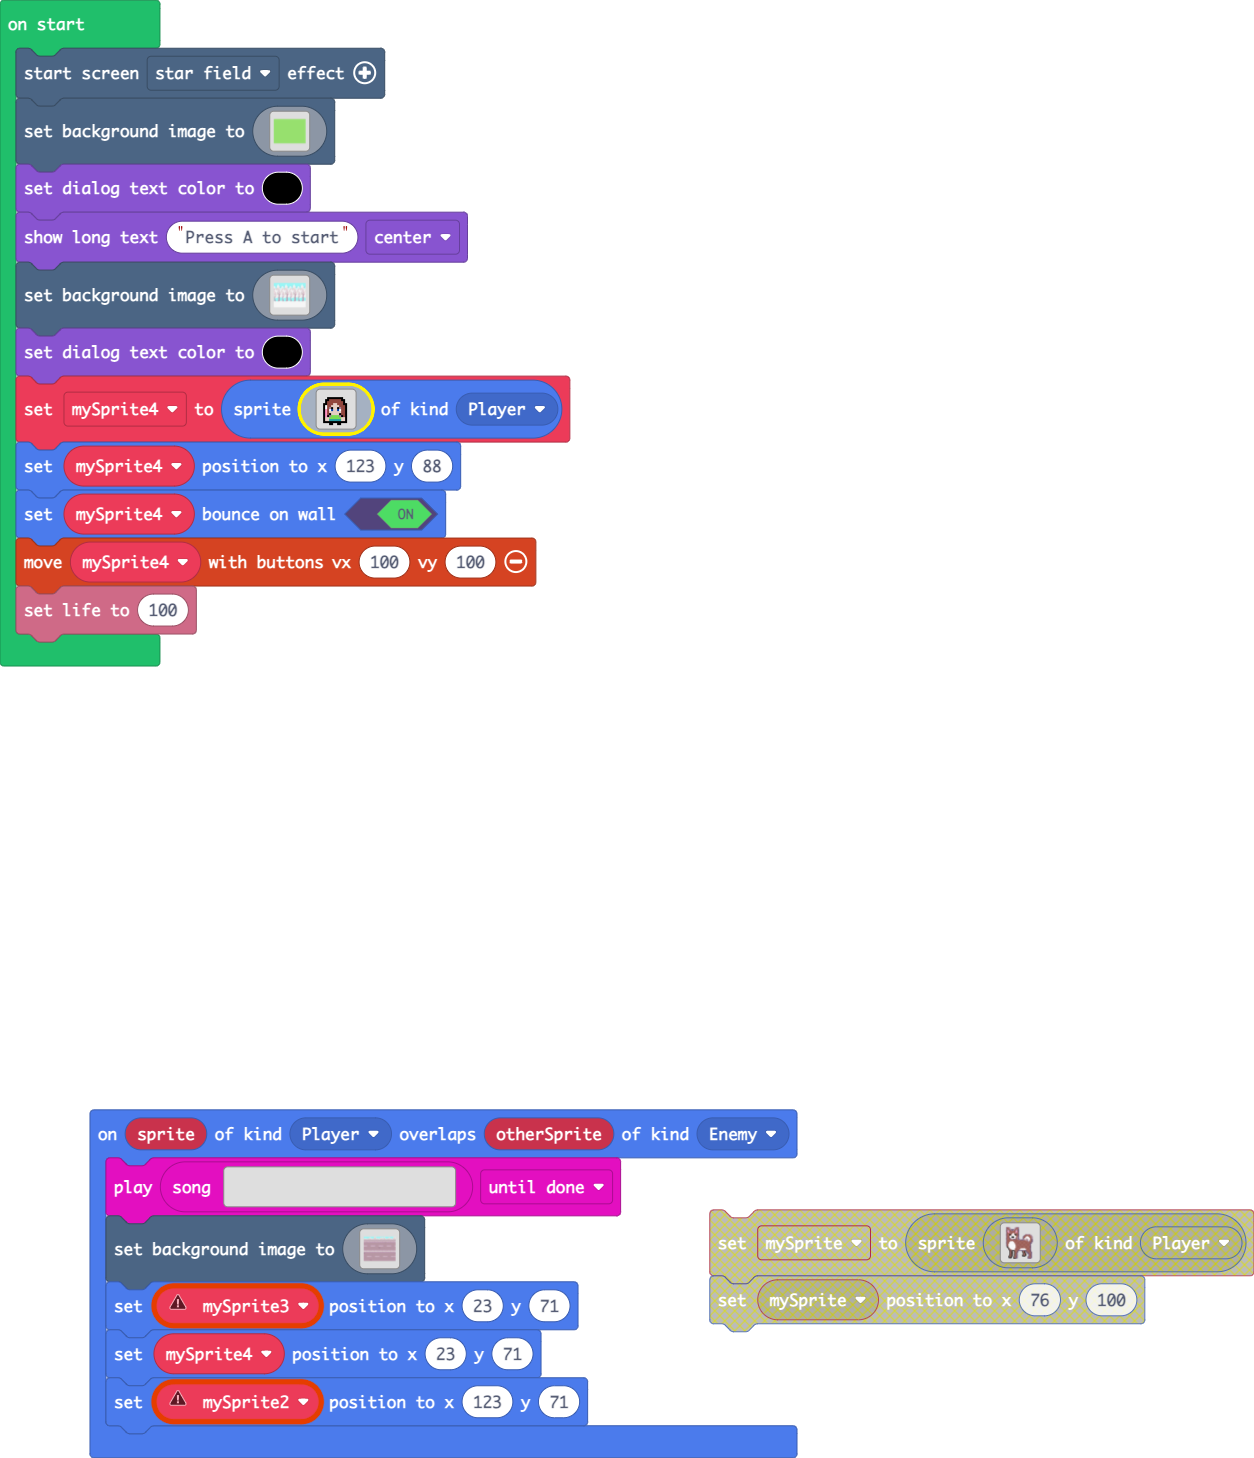
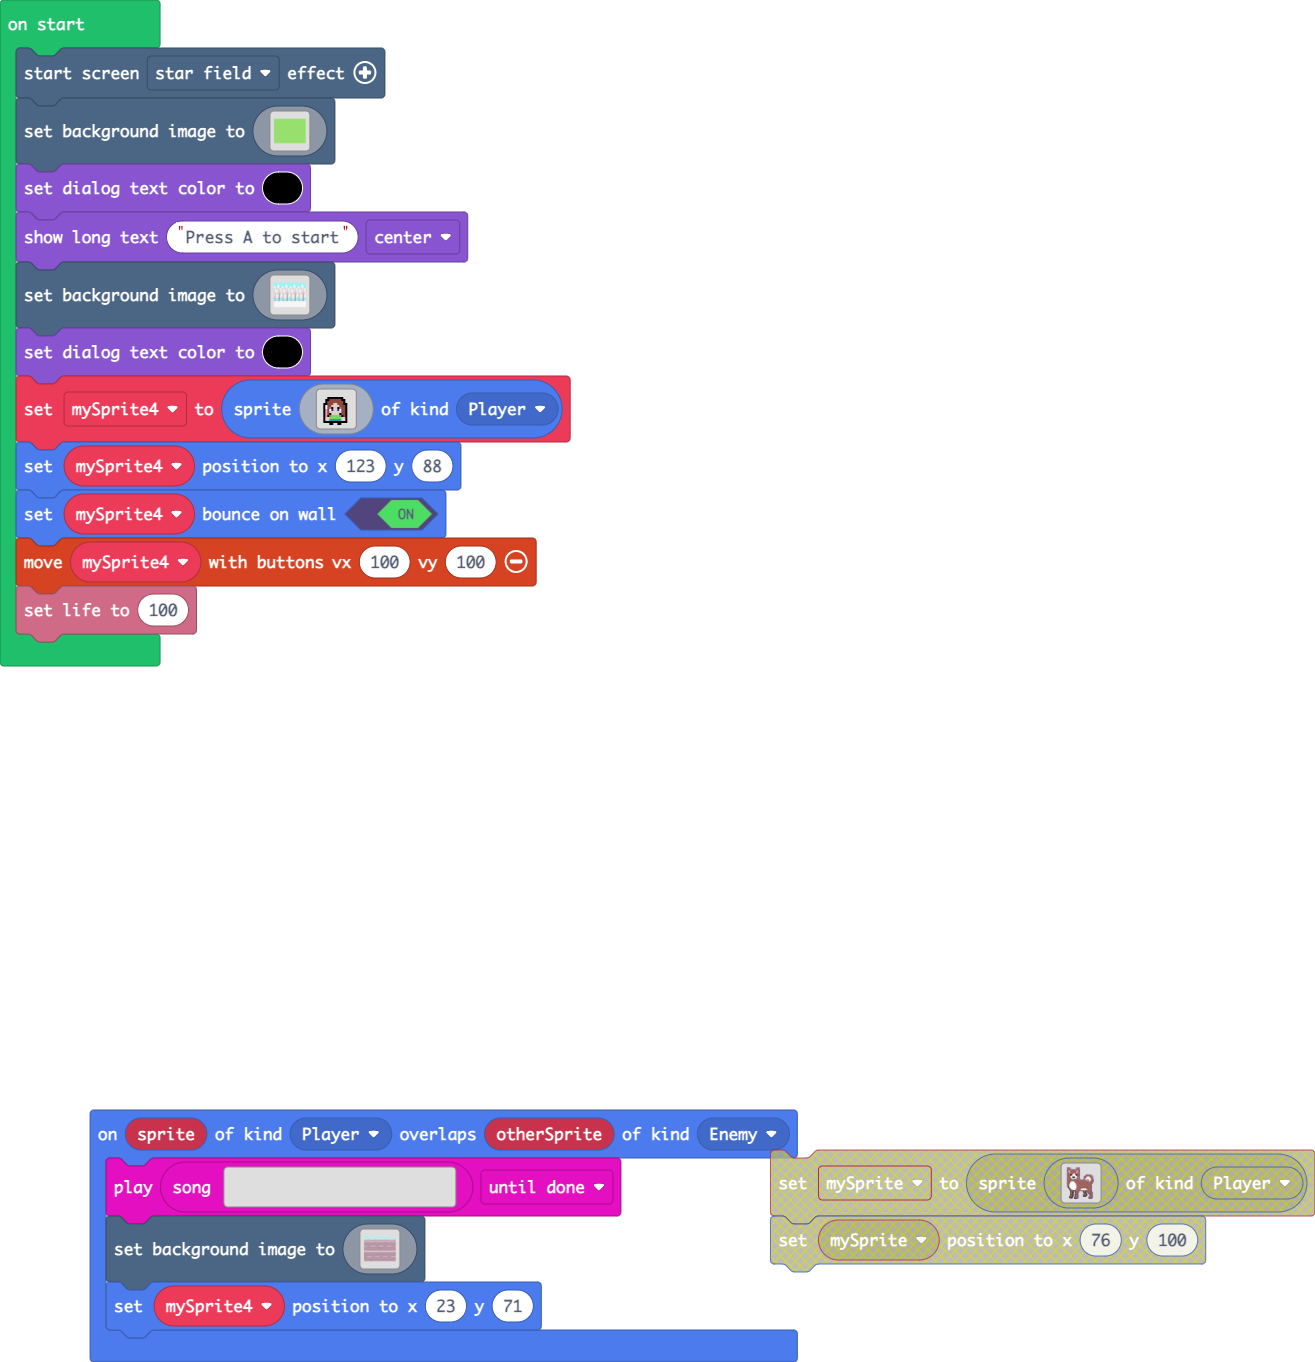
got rid of spite 3 and 4 code

Changed region(s): [[0.0622, 0.7401, 1.0, 1.0], [0.0, 0.0, 0.4665, 0.4934]]

diff --git a/images.g.ts b/images.g.ts
@@ -268,25 +268,6 @@ ddddd1dddd1111111b11b1111bbbddddbd11dd1dddddd1dddd1111111b11b1111bbbddddbd11dd1d
 1111111111111111111111111111111111111111111111111111111111111111111111111111111111111111111111111111111111111111111111111111111111111111111111111111111111111111
 1111111111111111111111111111111111111111111111111111111111111111111111111111111111111111111111111111111111111111111111111111111111111111111111111111111111111111
 `;
-            case "OFYbYQ+AI7Yoh2qY-Z]f":
-            case "Snow":return img`
-. . . . . . . . . . . . . 
-. . . . . . . . . . . . . 
-. . f f f f f f f f . . . 
-. f f e e e e e e f f . . 
-. f e e e e e e e e f . . 
-f f e e e d d e e e f f . 
-f e e e d d d d e e e f . 
-f e e b f d d f b e e f . 
-f e e 1 8 d d 8 1 e e f . 
-f e e d d d d d d e e f . 
-f e e f d d d d f e e f . 
-f e f b 7 7 7 7 b f e f . 
-f d d 7 7 7 7 7 7 d d f . 
-f d d 6 6 6 6 6 6 d d f . 
-f f f f f f f f f f f f . 
-. . . f f . . f f . . . . 
-`;
             case "AQb^4;g1ucG9NNn61~":
             case "Road":return img`
 9999999999999999999999999999999999999999999999999999999999999999999999999999999999999999999999999999999999999999999999999999999999999999999999999999999999999999
@@ -452,6 +433,25 @@ cee111111111eeeeeeeeeeeeeeeeeec..
 ...feef..feeec.............ceeec.
 ...ffff..feecc.............ceeec.
 .........fffc..............cccc..
+`;
+            case "OFYbYQ+AI7Yoh2qY-Z]f":
+            case "Snow":return img`
+. . . . . . . . . . . . . 
+. . . . . . . . . . . . . 
+. . f f f f f f f f . . . 
+. f f e e e e e e f f . . 
+. f e e e e e e e e f . . 
+f f e e e d d e e e f f . 
+f 1 e e d d d d e e e f . 
+f 1 e b f d d f b e e f . 
+f 3 e 1 8 d d 8 1 e e f . 
+f 3 e d d d d d d e e f . 
+f 3 e f d d d d f e e f . 
+f 3 f b 7 7 7 7 b f e f . 
+f d d 7 7 7 7 7 7 d d f . 
+f d d 6 6 6 6 6 6 d d f . 
+f f f f f f f f f f f f . 
+. . . f f . . f f . . . . 
 `;
         }
         return null;

diff --git a/main.ts b/main.ts
@@ -1,11 +1,7 @@
 sprites.onOverlap(SpriteKind.Player, SpriteKind.Enemy, function (sprite, otherSprite) {
-    let mySprite2: Sprite = null
-    let mySprite3: Sprite = null
     music.play(music.createSong(assets.song`Emty_Song`), music.PlaybackMode.UntilDone)
     scene.setBackgroundImage(assets.image`Road`)
-    mySprite3.setPosition(23, 71)
     mySprite4.setPosition(23, 71)
-    mySprite2.setPosition(123, 71)
 })
 let mySprite4: Sprite = null
 effects.starField.startScreenEffect()
